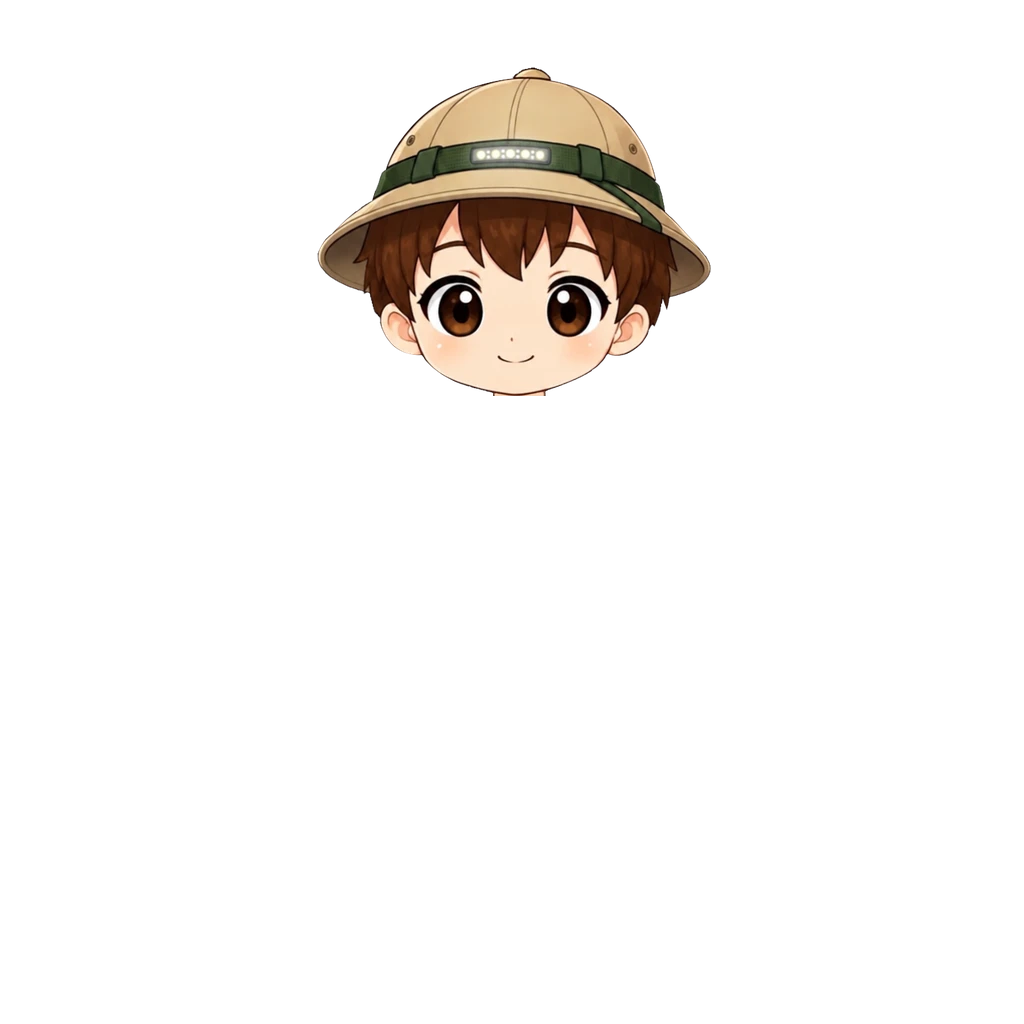
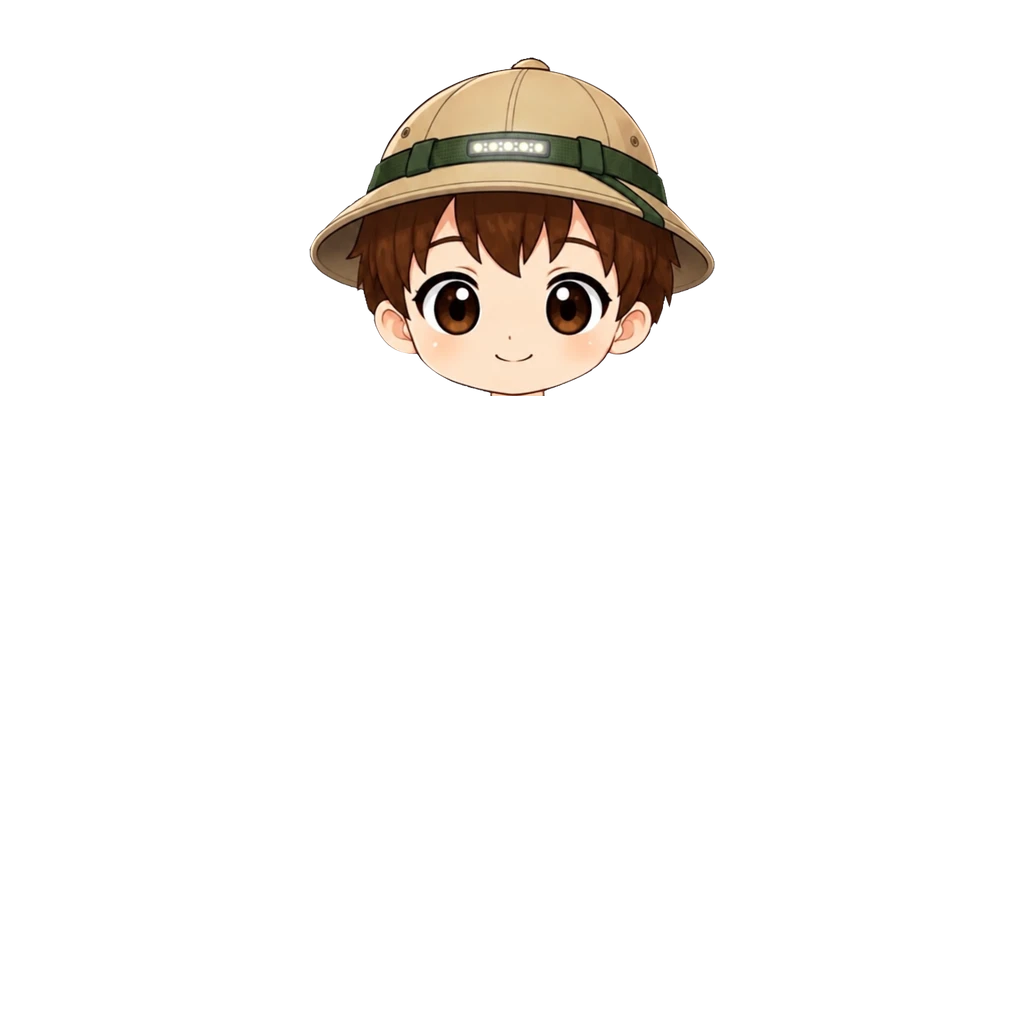
정글 모자(남아) 3% 크게·왼쪽 2 (#897)
턱·얼굴 가운데 고정으로 배율 0.664→0.6839 후 왼쪽 2. img ?v=4.

Claude-Session: https://claude.ai/code/session_018maNuYqDfFyRSe9uKpZhPR

Changed region(s): [[0.2812, 0.0312, 0.7188, 0.375]]

diff --git a/src/data/avatarEquipment.js b/src/data/avatarEquipment.js
@@ -263,8 +263,9 @@ export const AVATAR_CATALOG = [
      민머리 위에 얹힌다(베이스 v10 구조). 얼굴(눈~입) 템플릿 매칭으로 맞춤(배율 0.4065 · 일치 0.970).
      원화에 달린 목은 z50 이라 높은 깃(우주복·후드·도토리)을 덮어서 기본 머리 장처럼 y404 에서 잘랐다. */
   /* [2026-10-04] 새 원화로 교체·이름 사파리 모자 → 정글 모자 — 베이지 정글 모자(초록 띠·헤드램프) + 얼굴 한 장(사용자 원화 593×496).
-     위 탑재값은 옛 판 기록. 얼굴(눈~입) 템플릿 매칭(일치 0.955)으로 배율 0.664, 원점 (317,67), y404 아래 자름. 탑재 상자 (317,67,711,396). img ?v=3. */
-  { id: "hat_safari_boy", slot: "hat",   label: "정글 모자", emoji: "🧢", price:DECOR_PRICE.rare, rarity: "rare", theme: "adventure", forGender: "boy", hidesHead: true, img: "assets/avatar/hat/safari-brown.webp?v=3", thumb: "assets/avatar/thumb/hat_safari_boy.webp" },
+     위 탑재값은 옛 판 기록. 얼굴(눈~입) 템플릿 매칭(일치 0.955)으로 배율 0.664, 원점 (317,67), y404 아래 자름. 탑재 상자 (317,67,711,396). img ?v=3.
+     [2026-10-05] 사용자 조정 — 3% 크게(배율 0.6839, 턱·얼굴 가운데 고정) 후 왼쪽으로 2, 원점 (309,57). 탑재 상자 (309,57,715,396). img ?v=4. */
+  { id: "hat_safari_boy", slot: "hat",   label: "정글 모자", emoji: "🧢", price:DECOR_PRICE.rare, rarity: "rare", theme: "adventure", forGender: "boy", hidesHead: true, img: "assets/avatar/hat/safari-brown.webp?v=4", thumb: "assets/avatar/thumb/hat_safari_boy.webp" },
   /* 번개 캡모자 [2026-10-04] — 남아. 청록 캡(뒤로 쓴 챙·형광 번개) + 얼굴 한 장(사용자 원화 589×500). 번개 스케이터 옷과 짝.
      사파리 모자와 같은 방식 — hidesHead 로 기본 머리 장을 빼고 이 그림이 머리를 대신한다. 얼굴(눈~입) 템플릿 매칭(일치 0.956)으로
      배율 0.644, 원점 (336,76). 기본 머리 장처럼 y404 아래는 잘랐다. 탑재 상자 (336,76,715,398).

diff --git a/art-src/README.md b/art-src/README.md
@@ -341,7 +341,7 @@ getBoundingClientRect로 재서 정한다. 2026-08-05 점검에서 이 기준을
 | shoe-cream-L/R.webp | 크림 부츠 원화 한 짝씩 (현행, 고해상도 원본) | avatar/shoes/cream-boots(-girl).webp |
 | hat-explorer-v3.webp | 탐험 헬멧 원화 남아 v3 (현행, hidesHead) | avatar/hat/explorer-helmet.webp |
 | hat-explorer-helmet-girl.webp | 탐험 헬멧 원화 여아 (현행, imgGirl) | avatar/hat/explorer-helmet-girl.webp |
-| hat-safari-brown.webp | **정글 모자 원화 남아(옛 이름 사파리 모자) — 새 판 (사용자 원화 2026-10-04, 이전 판 교체)** — 593×496 투명 배경, 베이지 정글 모자(초록 띠·헤드램프) + 얼굴 한 장. hidesHead 로 기본 머리를 대신한다. 얼굴 템플릿 매칭(일치 0.955)으로 배율 0.664·원점 (317,67), y404 아래 자름. 탑재 상자 (317,67,711,396) · img ?v=3 | avatar/hat/safari-brown.webp |
+| hat-safari-brown.webp | **정글 모자 원화 남아(옛 이름 사파리 모자) — 새 판 (사용자 원화 2026-10-04, 이전 판 교체)** — 593×496 투명 배경, 베이지 정글 모자(초록 띠·헤드램프) + 얼굴 한 장. hidesHead 로 기본 머리를 대신한다. 얼굴 템플릿 매칭(일치 0.955)으로 배율 0.664·원점 (317,67), y404 아래 자름. 탑재 상자 (317,67,711,396) · img ?v=3 **[2026-10-05 조정]** 3% 크게(0.6839)·왼쪽 2, 원점 (309,57) · img ?v=4 | avatar/hat/safari-brown.webp |
 | hat-aviator-cap.webp | 비행사 모자 원화 남아 (**겨울 시즌 보관** — season:"winter", 상점 미노출) | avatar/hat/aviator-cap.webp |
 | hat-aviator-cap-girl.webp | 비행사 모자 원화 여아 (**겨울 시즌 보관**) | avatar/hat/aviator-cap-girl.webp |
 | hat-blossom.webp | 꽃 헬멧 원화 남아 (현행, hidesHead) | avatar/hat/blossom-helmet.webp |
